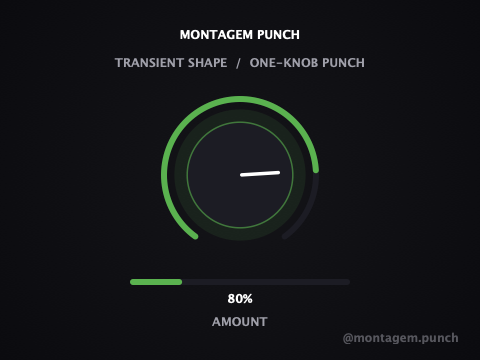
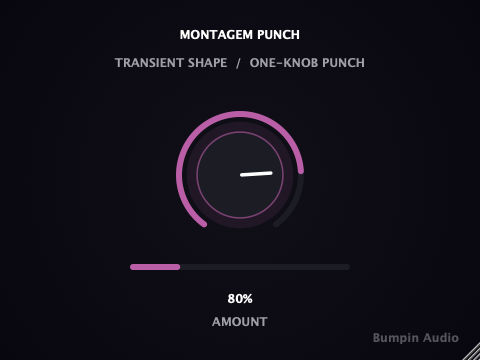
Update publisher name to Bumpin Audio
Purely metadata (COMPANY_NAME) -- the technical manufacturer code used by
hosts/DAWs to identify the plugin is unchanged, so existing installs are
unaffected.

diff --git a/Source/PunchLookAndFeel.h b/Source/PunchLookAndFeel.h
@@ -1,17 +1,19 @@
 #pragma once
 #include <juce_gui_basics/juce_gui_basics.h>
 
-// Same Montagem brand palette as the Finisher/Widener plugins: dark
-// background, red = "soft", green = "punchy". The knob arc interpolates
-// between them as the single "amount" parameter increases, so the color
-// itself communicates the effect strength instead of a plain gray dial.
+// Same Bumpin Audio catalogue palette as Delta Zero/Delta Blind (and the
+// logo): cyan = "soft"/idle, magenta = "punchy"/engaged. The knob arc
+// interpolates between them as the single "amount" parameter increases,
+// so the color itself communicates the effect strength instead of a plain
+// gray dial -- same cyan=calm/magenta=intense convention used across the
+// whole catalogue, not a Montagem-specific red/green.
 class PunchLookAndFeel : public juce::LookAndFeel_V4
 {
 public:
-    inline static const juce::Colour bg        { 0xff0d0d12 };
+    inline static const juce::Colour bg        { 0xff0a0912 };
     inline static const juce::Colour bgLighter  { 0xff1c1c24 };
-    inline static const juce::Colour red        { 0xffff3b30 };
-    inline static const juce::Colour green      { 0xff30d158 };
+    inline static const juce::Colour cyan       { 0xff29c2d6 };
+    inline static const juce::Colour magenta    { 0xffe0479c };
     inline static const juce::Colour textDim    { 0xffa0a0aa };
 
     PunchLookAndFeel()
@@ -28,7 +30,7 @@ public:
         const auto centre = bounds.getCentre();
         const auto radius = juce::jmin(bounds.getWidth(), bounds.getHeight()) * 0.5f;
         const auto angle = rotaryStartAngle + sliderPosProportional * (rotaryEndAngle - rotaryStartAngle);
-        const auto knobColour = red.interpolatedWith(green, sliderPosProportional);
+        const auto knobColour = cyan.interpolatedWith(magenta, sliderPosProportional);
 
         // outer track
         {

diff --git a/Source/PluginEditor.cpp b/Source/PluginEditor.cpp
@@ -40,7 +40,7 @@ PunchEditor::PunchEditor(PunchProcessor& p)
     amountSlider.onValueChange = [this] { updateValueLabel(); repaint(); };
     updateValueLabel();
 
-    brandLabel.setText("@montagem.punch", juce::dontSendNotification);
+    brandLabel.setText("Bumpin Audio", juce::dontSendNotification);
     brandLabel.setJustificationType(juce::Justification::centredRight);
     brandLabel.setColour(juce::Label::textColourId, PunchLookAndFeel::textDim.withAlpha(0.5f));
     brandLabel.setFont(juce::Font(juce::FontOptions(10.0f, juce::Font::plain)));
@@ -85,7 +85,7 @@ void PunchEditor::paint(juce::Graphics& g)
     g.fillAll();
 
     const float amount = (float)amountSlider.getValue();
-    const auto colour = PunchLookAndFeel::red.interpolatedWith(PunchLookAndFeel::green, amount);
+    const auto colour = PunchLookAndFeel::cyan.interpolatedWith(PunchLookAndFeel::magenta, amount);
 
     // Live transient meter: a horizontal track that fills based on the
     // processor's real-time detector reading -- unlike the Finisher/Widener

diff --git a/README.md b/README.md
@@ -105,6 +105,11 @@ funk automotivo / phonk production, in signal-chain order:
 - [Montagem Widener](https://github.com/nabsei/montagem-widener) — stereo width
 - **Montagem Punch** (this repo) — transient shaping
 
-Also by the same author: [Delta](https://github.com/nabsei/delta), a
-phase-cancellation null-test / difference-checker plugin (a different tool
-for a different audience — audio engineers doing verification work).
+Also from Bumpin Audio: [Yano Log](https://github.com/nabsei/yano-log),
+[Yano Finish](https://github.com/nabsei/yano-finish),
+[Yano Space](https://github.com/nabsei/yano-space),
+[Yano Swing](https://github.com/nabsei/yano-swing) — a one-knob amapiano
+log drum synth, finisher, space/width processor, and MIDI groove tool --
+and the Delta line for audio engineers, [Delta Zero](https://github.com/nabsei/delta-zero)
+(phase-cancellation null-test / difference-checker) and
+[Delta Blind](https://github.com/nabsei/delta-blind) (loudness-matched A/B compare).